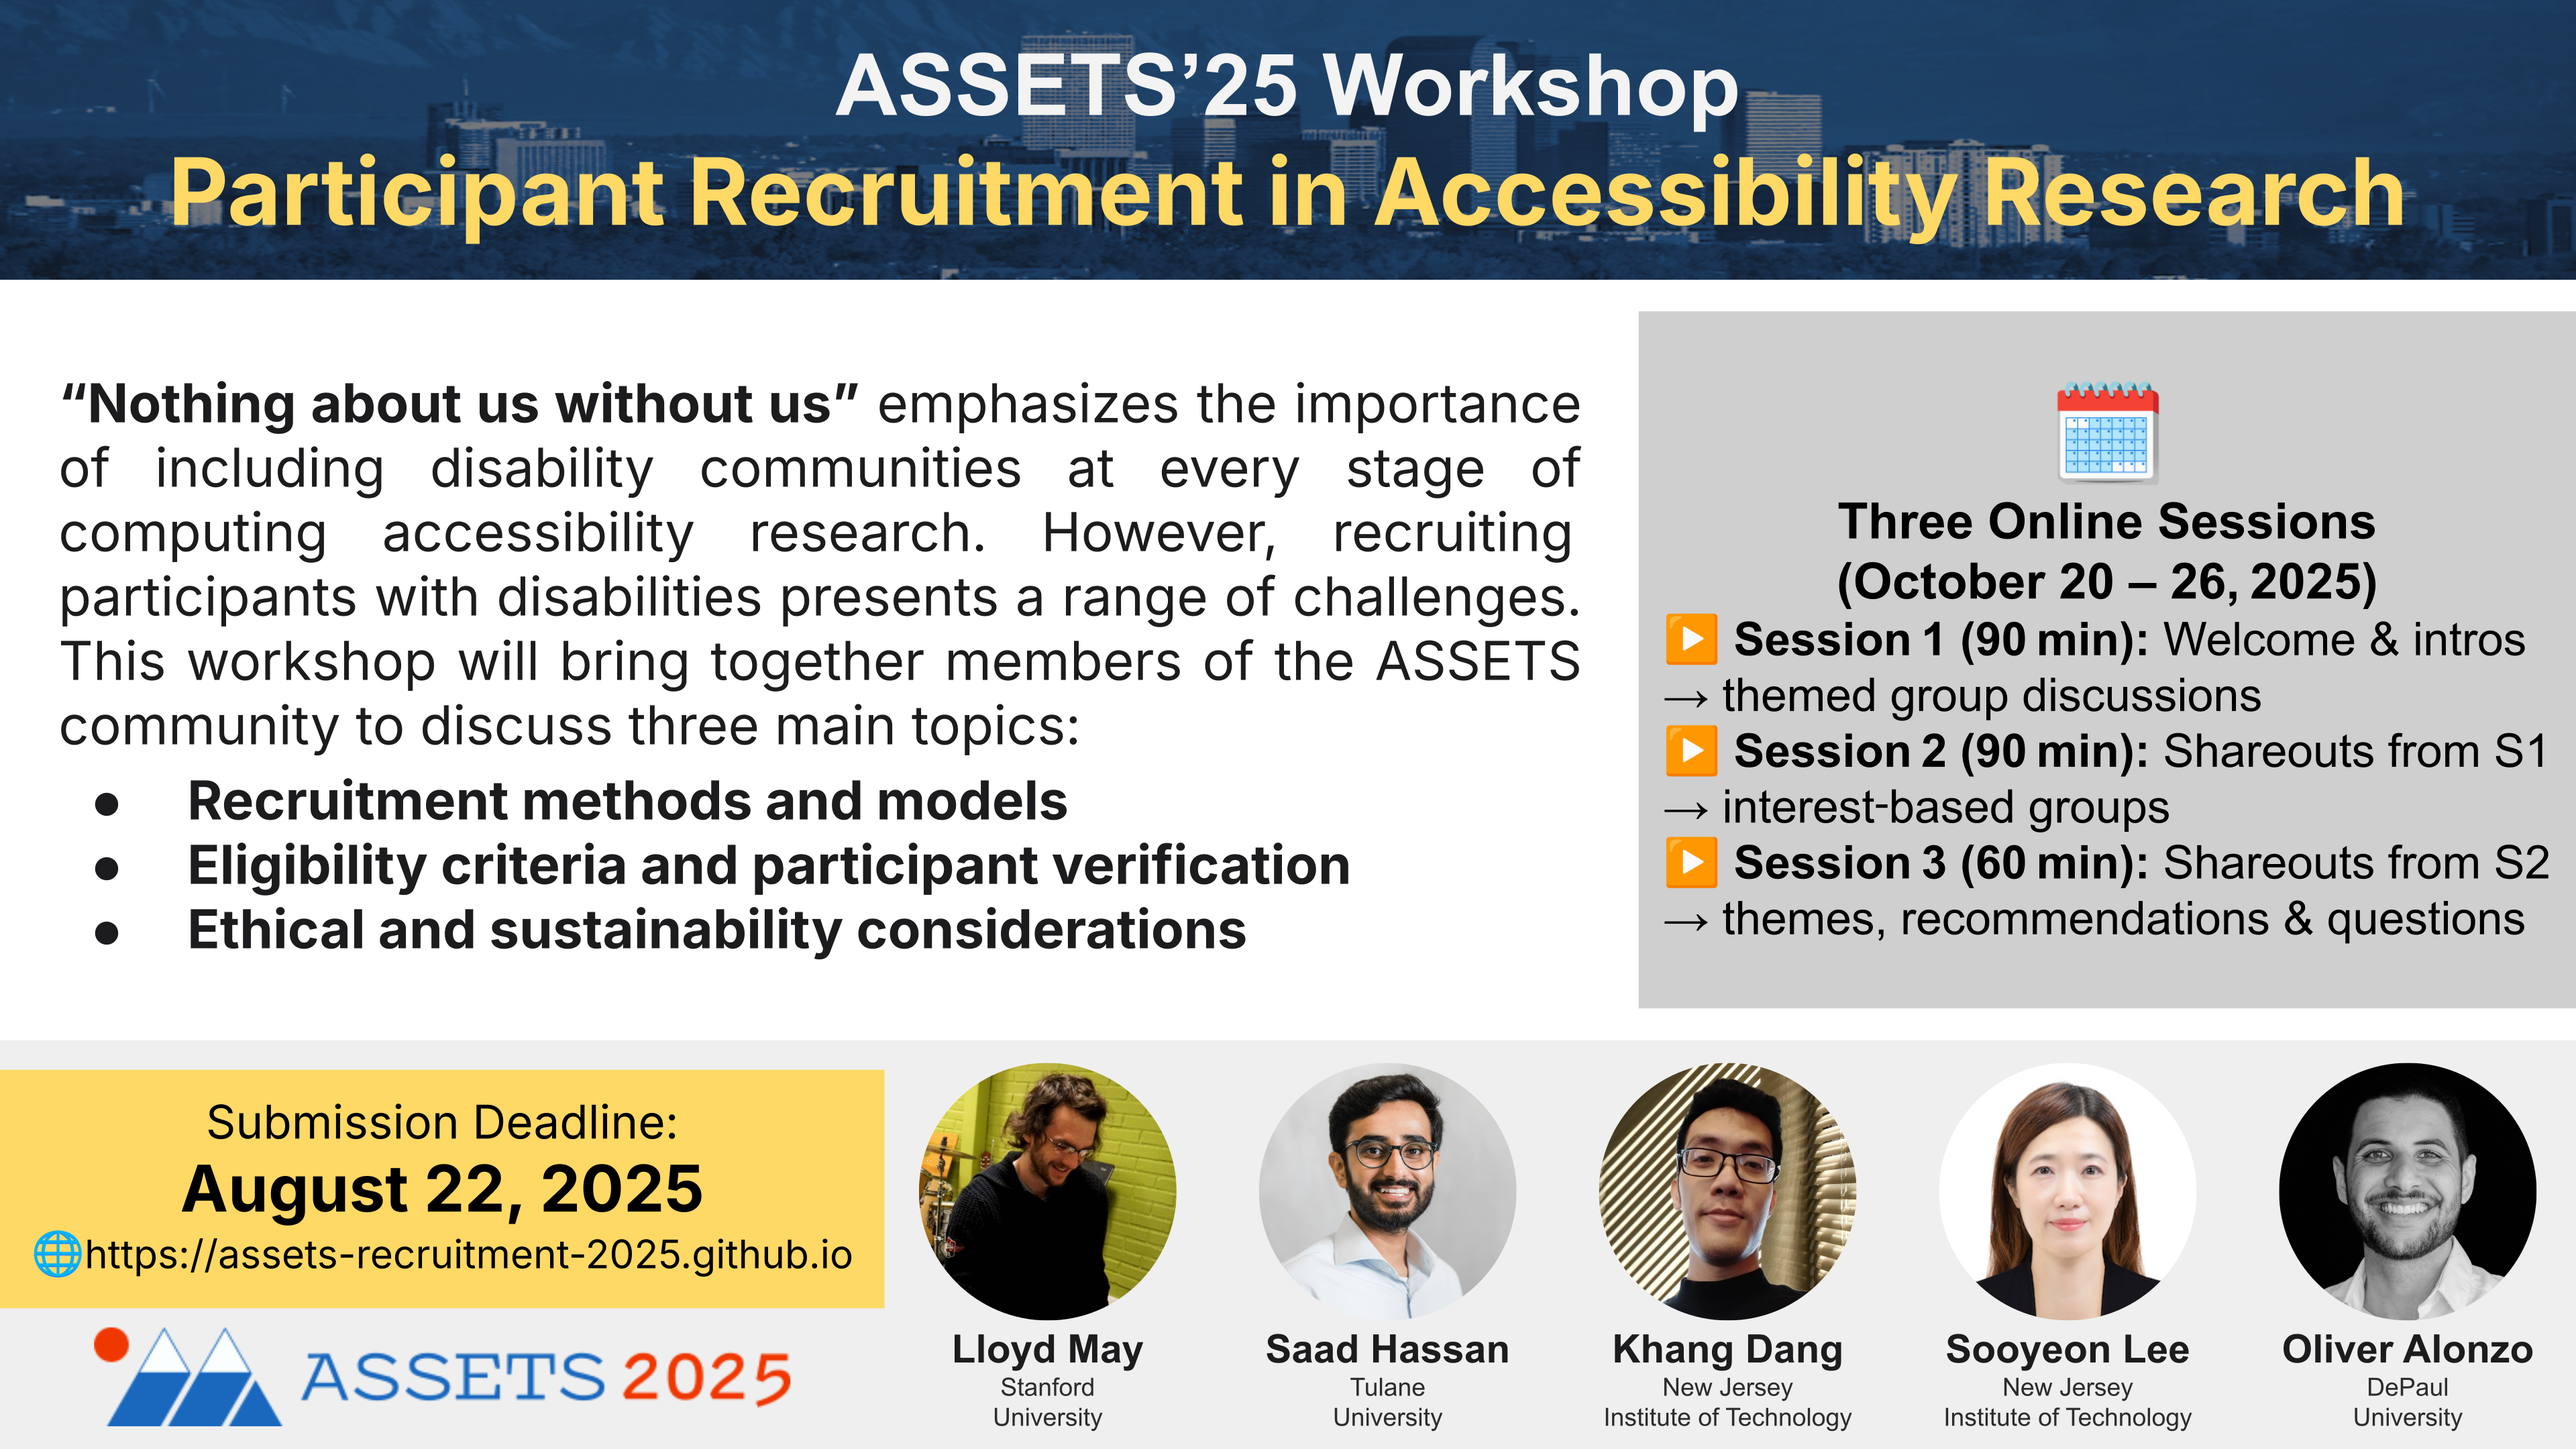
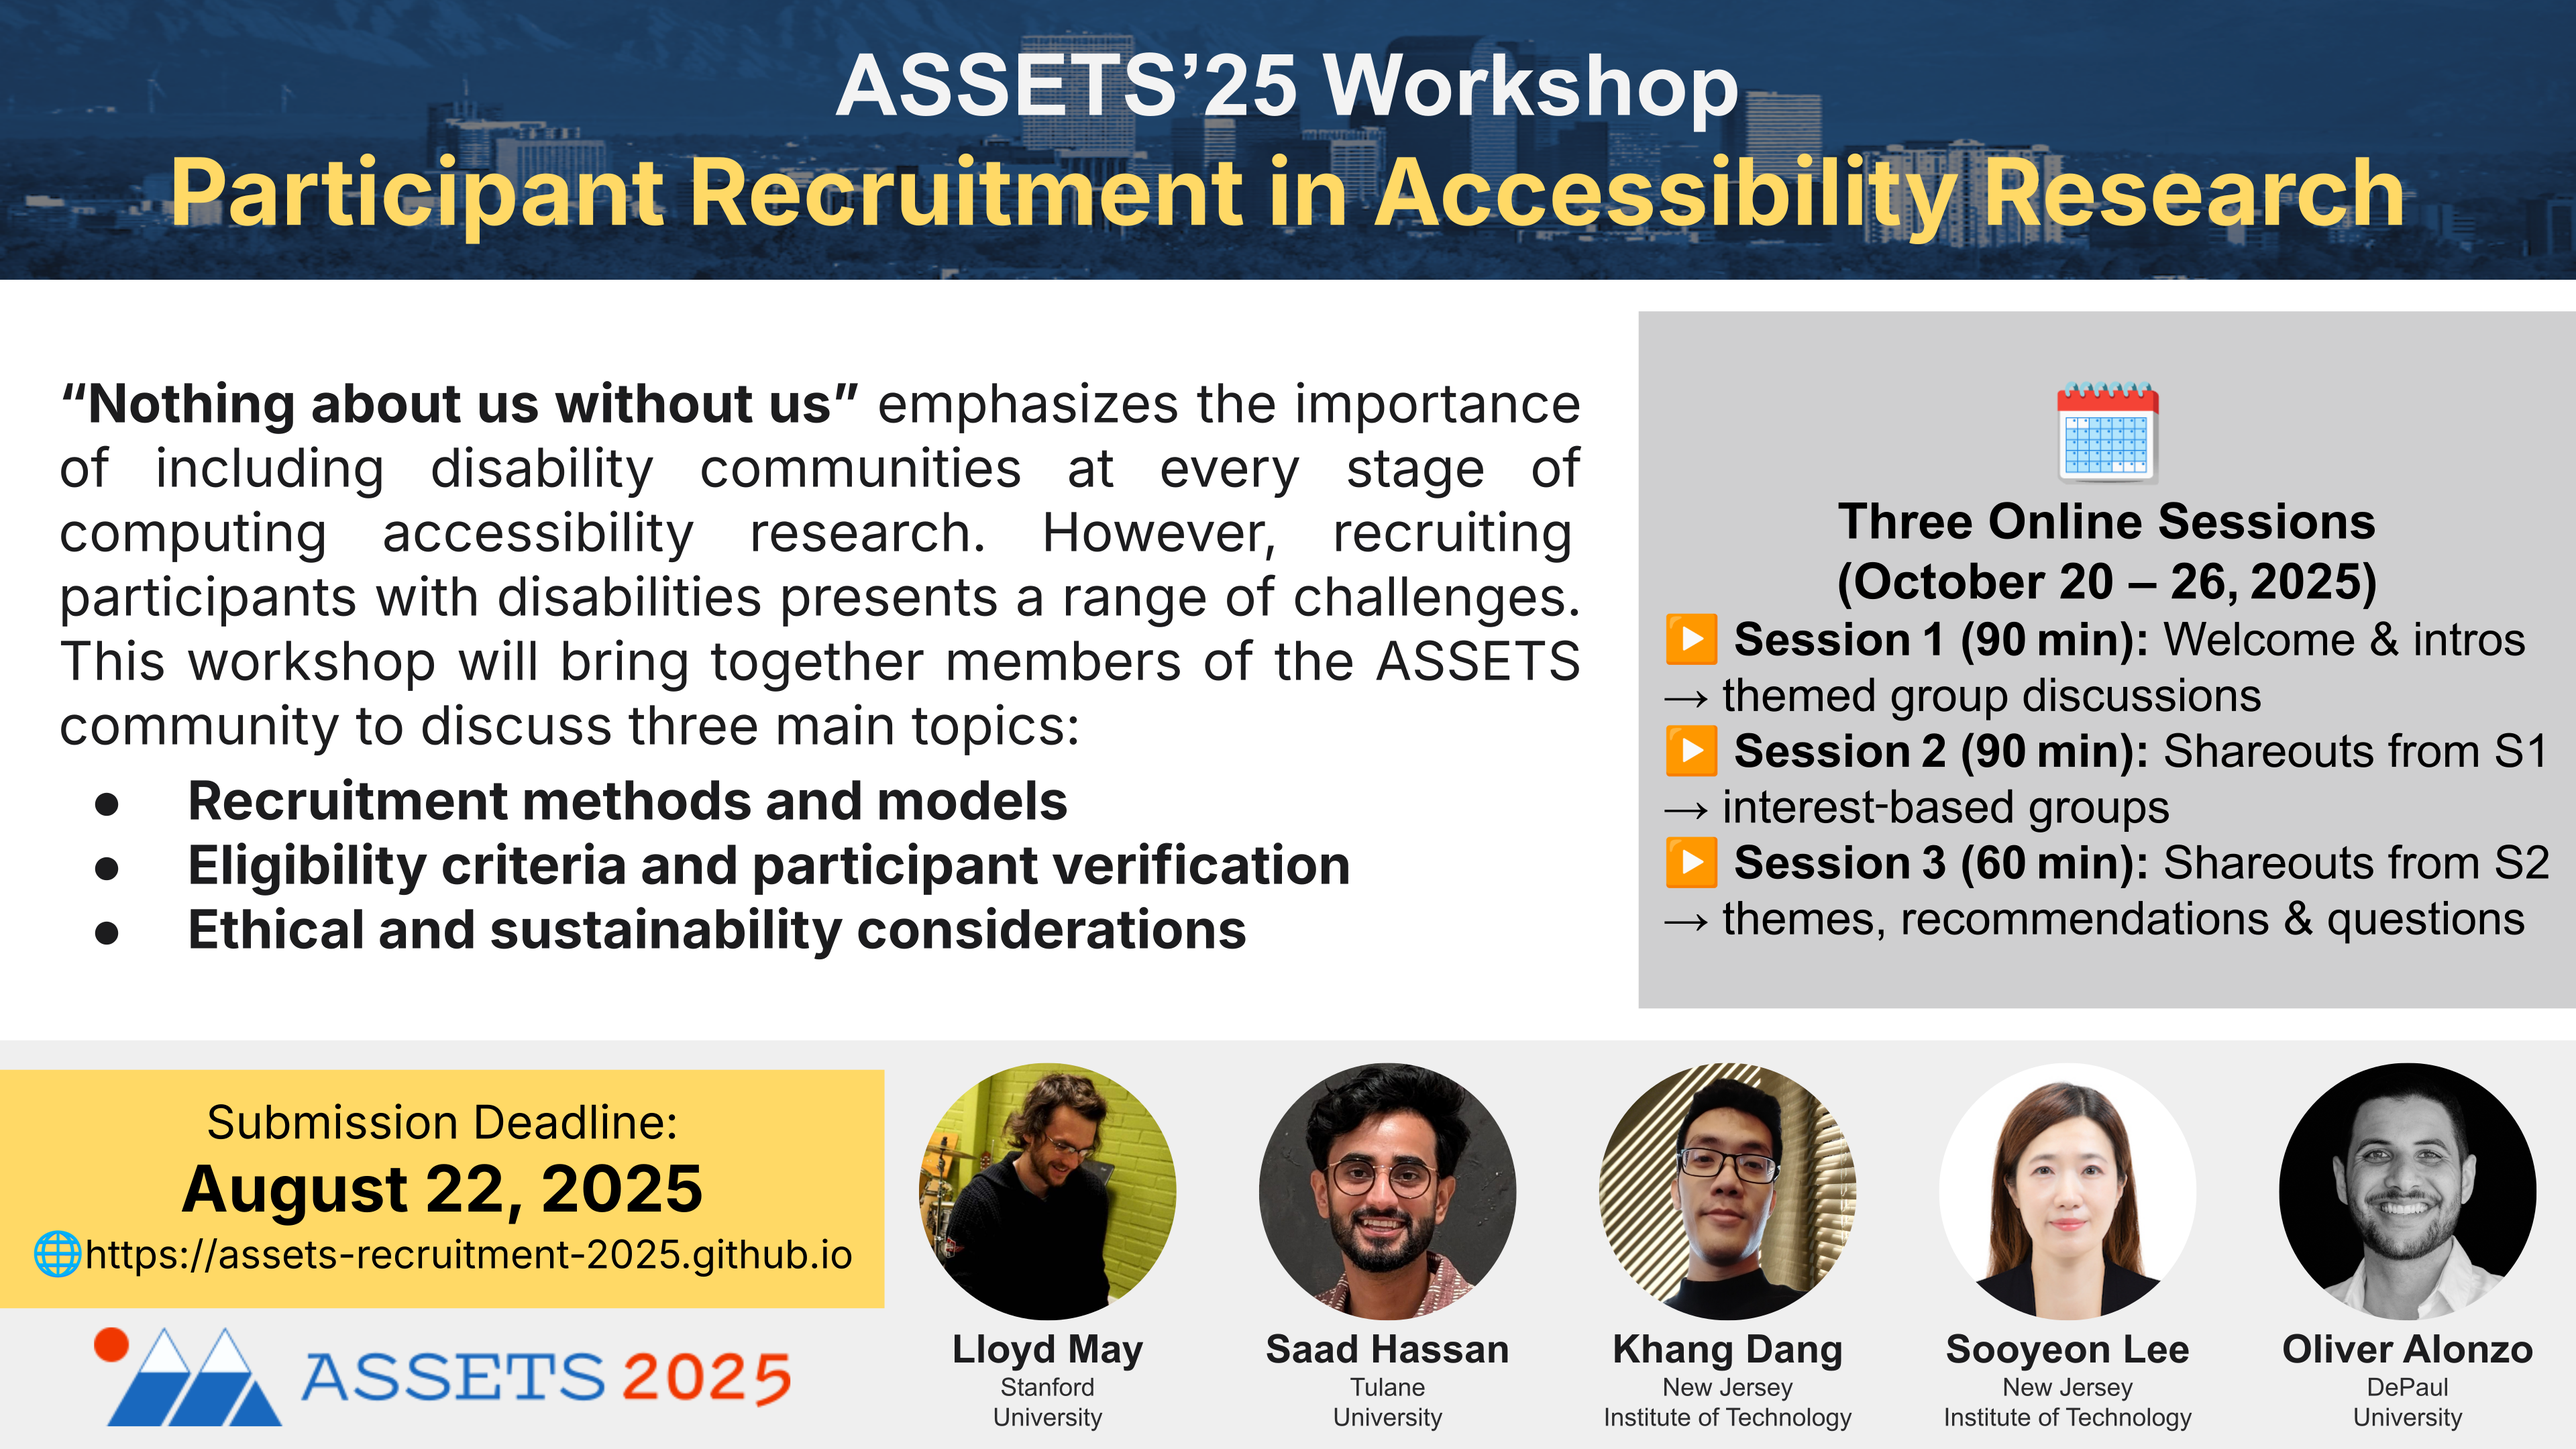
Update a photo

Changed region(s): [[0.4688, 0.7134, 0.5938, 0.9306]]

diff --git a/_layouts/default.html b/_layouts/default.html
@@ -13,7 +13,7 @@
 
   <link rel="stylesheet" href="{{ '/assets/css/style.css' | relative_url }}">
   <!-- Open Graph -->
-  <meta property="og:image" content="https://assets-recruitment-2025.github.io/assets/img/slide-preview.jpg" />
+  <meta property="og:image" content="https://assets-recruitment-2025.github.io/assets/img/slide-preview-social.png" />
   <meta property="og:image:width"  content="1600" />
   <meta property="og:image:height" content="900" />
   <meta property="og:title"        content="{{ page.title }} | {{ site.title }}" />
@@ -21,7 +21,7 @@
 
   <!-- Twitter -->
   <meta name="twitter:card"        content="summary_large_image" />
-  <meta name="twitter:image"       content="https://assets-recruitment-2025.github.io/assets/img/slide-preview.jpg" />
+  <meta name="twitter:image"       content="https://assets-recruitment-2025.github.io/assets/img/slide-preview-social.png" />
   <meta name="twitter:title"       content="{{ page.title }} | {{ site.title }}" />
   <meta name="twitter:description" content="{{ page.excerpt | strip_html | truncate: 160 }}" />
 

diff --git a/index.md b/index.md
@@ -213,7 +213,7 @@ We will run the workshop online via Zoom across three sessions (see <strong>Tabl
     </ul>
     </div>
     <div class="organizer">
-    <img src="assets/img/saad.jpeg" alt="Headshot of Saad Hassan">
+    <img src="assets/img/saad.jpg" alt="Headshot of Saad Hassan">
       <h3>Saad Hassan</h3>
       <p>Faculty Member</p>
       <p>Tulane University</p>
